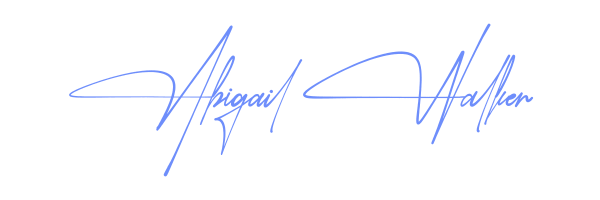
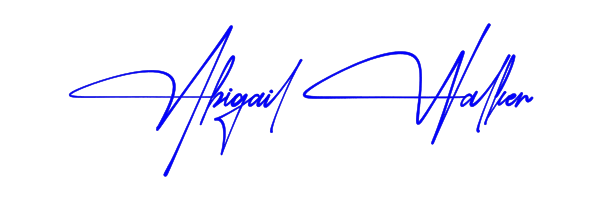
signaturekorjaus

diff --git a/generate-signatures.js b/generate-signatures.js
@@ -5,6 +5,7 @@ const { createCanvas, registerFont } = require("canvas");
 // Rekisteröi fontit
 registerFont(path.join(__dirname, "public/fonts/omafontti3.ttf"), {
   family: "OmaFontti3",
+  weight: "bold",
 });
 
 // Esimerkkinimet
@@ -54,7 +55,7 @@ function createSignature(name, fontFamily, color) {
 
   // Käytä samaa fonttikokoa kuin API-reitissä
   ctx.font = `110px ${fontFamily}`; // Suurempi fonttikoko
-  ctx.fillStyle = color;
+  ctx.fillStyle = "rgba(2, 2, 255, 1.0)"; // Täysin peittävä sininen
   ctx.textAlign = "center";
 
   const textMetrics = ctx.measureText(name);
@@ -67,7 +68,13 @@ function createSignature(name, fontFamily, color) {
       textMetrics.actualBoundingBoxDescent) /
       2;
 
+  // Säädä viivan paksuutta ohuemmaksi
+  ctx.lineWidth = 0.5; // Ohuempi viiva (oli 1.5)
+  ctx.strokeStyle = color; // Sama väri kuin täyttö
+
+  // Piirrä teksti - voit myös poistaa strokeText-kutsun kokonaan, jos haluat vain täytön
   ctx.fillText(name, canvas.width / 2, centerY);
+  ctx.strokeText(name, canvas.width / 2, centerY); // Lisää ääriviiva
 
   return canvas.toBuffer("image/png");
 }
@@ -82,7 +89,7 @@ process.on("uncaughtException", (err) => {
 exampleNames.forEach((name, index) => {
   try {
     console.log(`Luodaan allekirjoitus nimelle: ${name}`);
-    const buffer = createSignature(name, "OmaFontti3", "#6e8efb");
+    const buffer = createSignature(name, "OmaFontti3", "#0000CC");
     const filename = `handwritten_signature_generator_example_${index + 1}.png`;
     fs.writeFileSync(path.join(signatureDir, filename), buffer);
     console.log(`Luotu allekirjoitus: ${filename}`);

diff --git a/api/index.js b/api/index.js
@@ -142,8 +142,13 @@ function createSignatureWithoutWatermark(name, fontStyle, color = "black") {
       textMetrics.actualBoundingBoxDescent) /
       2;
 
+  // Lisää nämä rivit ennen fillText-kutsua
+  ctx.lineWidth = 1.5;
+  ctx.strokeStyle = color;
+
   // Piirrä teksti
   ctx.fillText(name, canvas.width / 2, centerY);
+  ctx.strokeText(name, canvas.width / 2, centerY); // Lisää ääriviiva
 
   // Palauta PNG läpinäkyvällä taustalla
   return canvas.toDataURL("image/png");
